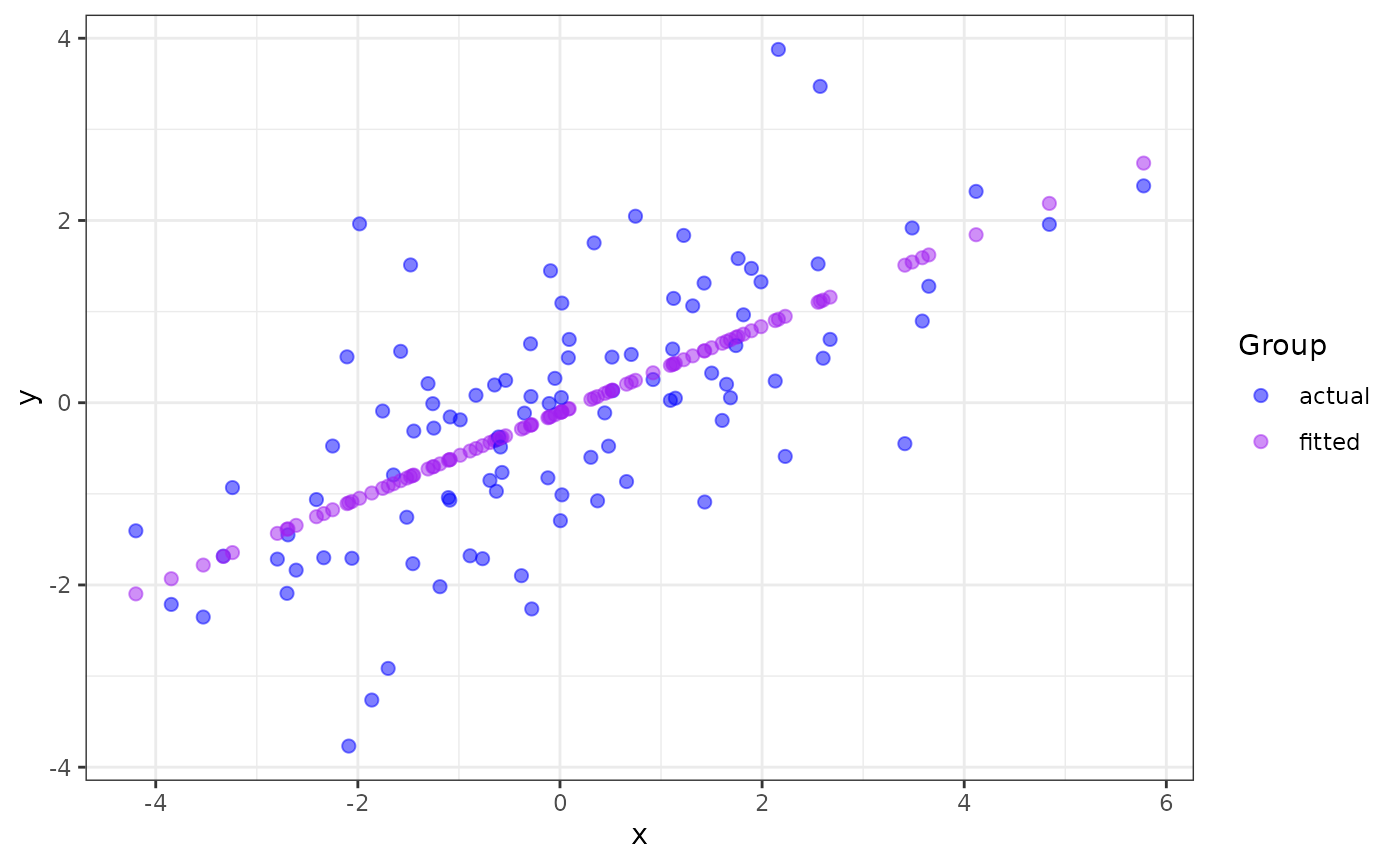
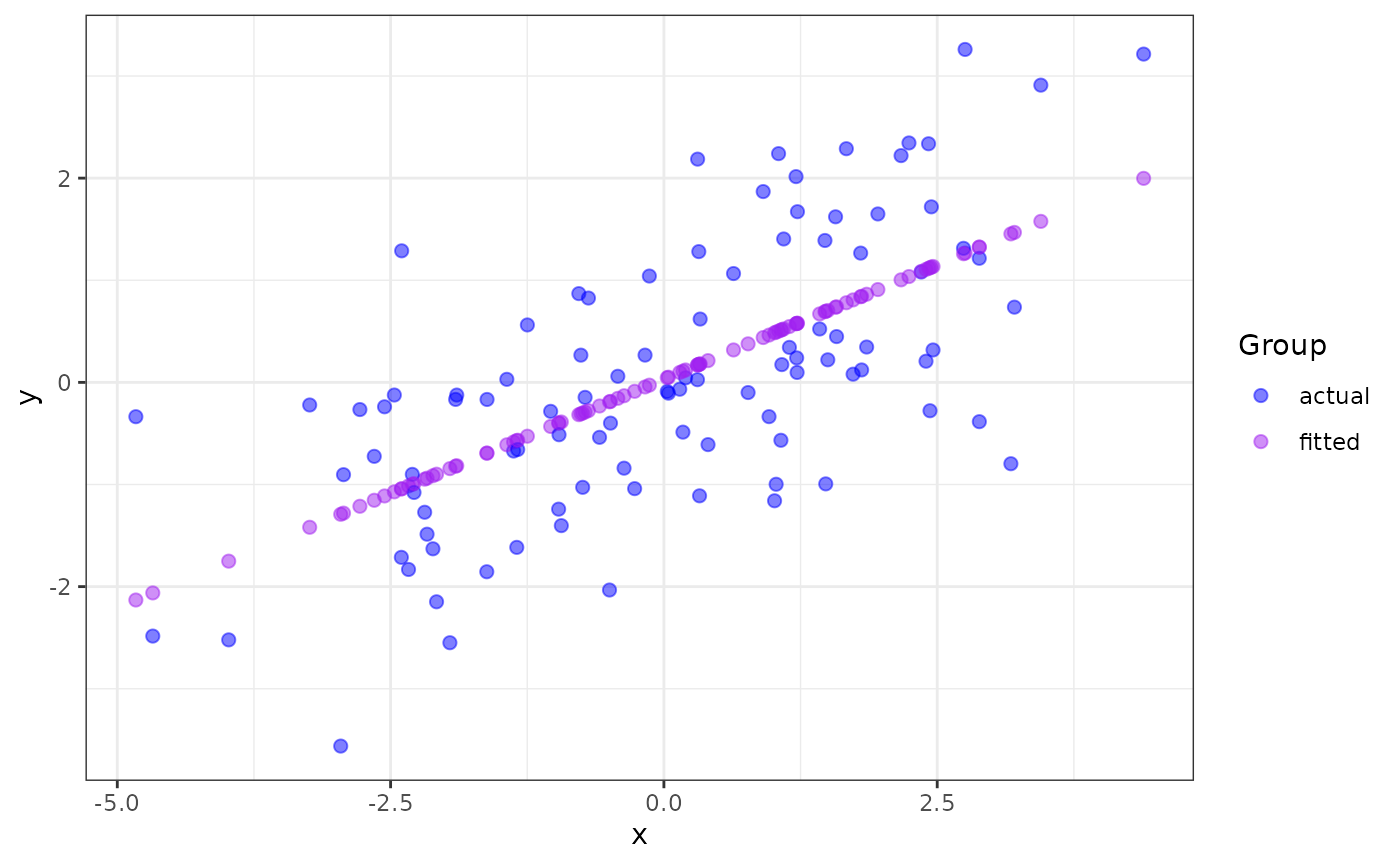
Built site for ggmatplot: 0.1.0.9000@188fa00

diff --git a/articles/ggmatplot.html b/articles/ggmatplot.html
@@ -103,7 +103,7 @@
 <span class="va">x</span> <span class="op">&lt;-</span> <span class="fu"><a href="https://rdrr.io/r/base/c.html" class="external-link">c</a></span><span class="op">(</span><span class="fu"><a href="https://rdrr.io/r/stats/Normal.html" class="external-link">rnorm</a></span><span class="op">(</span><span class="fl">100</span>, sd <span class="op">=</span> <span class="fl">2</span><span class="op">)</span><span class="op">)</span>
 
 <span class="fu"><a href="https://rdrr.io/r/utils/head.html" class="external-link">head</a></span><span class="op">(</span><span class="va">x</span><span class="op">)</span>
-<span class="co">#&gt; [1]  1.76290927 -0.62932329  0.01867324  0.92093976  0.52109208 -1.10412992</span>
+<span class="co">#&gt; [1] -1.03596008  1.07865477 -0.75951301  1.42479568  2.16934785  0.04141018</span>
 
 <span class="co"># matrix z</span>
 <span class="va">y</span> <span class="op">&lt;-</span> <span class="va">x</span> <span class="op">*</span> <span class="fl">0.5</span> <span class="op">+</span> <span class="fu"><a href="https://rdrr.io/r/stats/Normal.html" class="external-link">rnorm</a></span><span class="op">(</span><span class="fl">100</span>, sd <span class="op">=</span> <span class="fl">1</span><span class="op">)</span>
@@ -113,12 +113,12 @@
 
 <span class="fu"><a href="https://rdrr.io/r/utils/head.html" class="external-link">head</a></span><span class="op">(</span><span class="va">z</span><span class="op">)</span>
 <span class="co">#&gt;       actual      fitted</span>
-<span class="co">#&gt; 1  1.5822049  0.72736748</span>
-<span class="co">#&gt; 2 -0.9717222 -0.40670399</span>
-<span class="co">#&gt; 3  1.0933922 -0.09951212</span>
-<span class="co">#&gt; 4  0.2544529  0.32822000</span>
-<span class="co">#&gt; 5  0.1313786  0.13866659</span>
-<span class="co">#&gt; 6 -1.0411605 -0.63179274</span></code></pre></div>
+<span class="co">#&gt; 1 -0.2836273 -0.43161443</span>
+<span class="co">#&gt; 2  0.1740149  0.51551888</span>
+<span class="co">#&gt; 3  0.2666672 -0.30779413</span>
+<span class="co">#&gt; 4  0.5228141  0.67055495</span>
+<span class="co">#&gt; 5  2.2205542  1.00403892</span>
+<span class="co">#&gt; 6 -0.1058743  0.05093834</span></code></pre></div>
 <p><code>ggmatplot</code> plots vector <code>x</code> against each column of matrix <code>z</code> using the default <code>plot_type = "point"</code>. This will be represented on the resulting plot as two groups, identified using different shapes and colors.</p>
 <div class="sourceCode" id="cb2"><pre class="downlit sourceCode r">
 <code class="sourceCode R"><span class="kw"><a href="https://rdrr.io/r/base/library.html" class="external-link">library</a></span><span class="op">(</span><span class="va"><a href="https://github.com/xuan-liang/ggmatplot" class="external-link">ggmatplot</a></span><span class="op">)</span>
